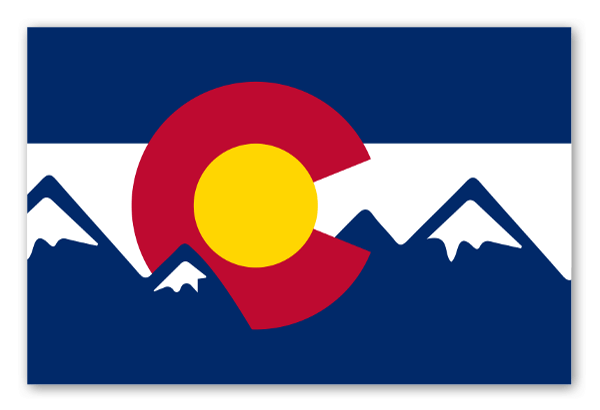
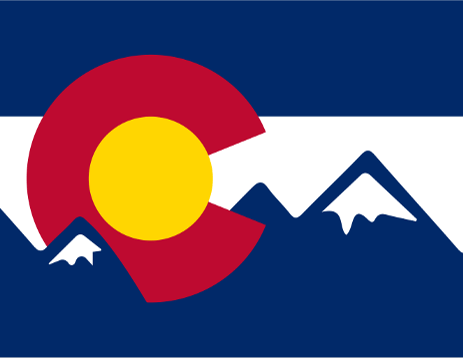
added restaurant site and link to resume

diff --git a/html/index.html b/html/index.html
@@ -54,8 +54,8 @@
             have been built using modern technologies, notably the Java Spring framework,and the javascript
             Angular framework.</p>
         <p>
-          <a href="https://github.com/flycal6/PersonalSite" target="_blank" class="btn btn-primary">View on Github</a>
-          <a href="mailto:brian@moneykatz.com?subject=Lets%20go%20Snowboarding" class="btn btn-secondary">Invite me snowboarding</a>
+          <a href="https://github.com/flycal6" target="_blank" class="btn btn-primary">Github</a>
+          <a href="https://www.moneykatz.com/brian-thomas-resume/" class="btn btn-secondary">Resumé</a>
         </p>
       </div>
     </section>
@@ -96,10 +96,11 @@
             <p class="card-text">ask.edu.kw is the main site for the American School of Kuwait.</p>
           </div>
           <div class="card col-10 col-sm-6 col-md-4">
-              <a href="https://www.snowbird.com/" target="_blank">
-                  <img class="img-fluid rounded" src="images/snowbird.jpg" alt="Card image cap">
+              <a href="http://18.220.25.115:8080/CafeAllegro/" target="_blank">
+                  <img class="img-fluid rounded" src="./images/colorado-icon.png" alt="Card image cap">
               </a>
-              <p class="card-text">This is the greatest place I have ever snowboarded.</p>
+              <p class="card-text">A restaurant site with customer frontend for placing orders, and an
+              admin backend for managing the content.</p>
           </div>
 
           <!-- <div class="card">
